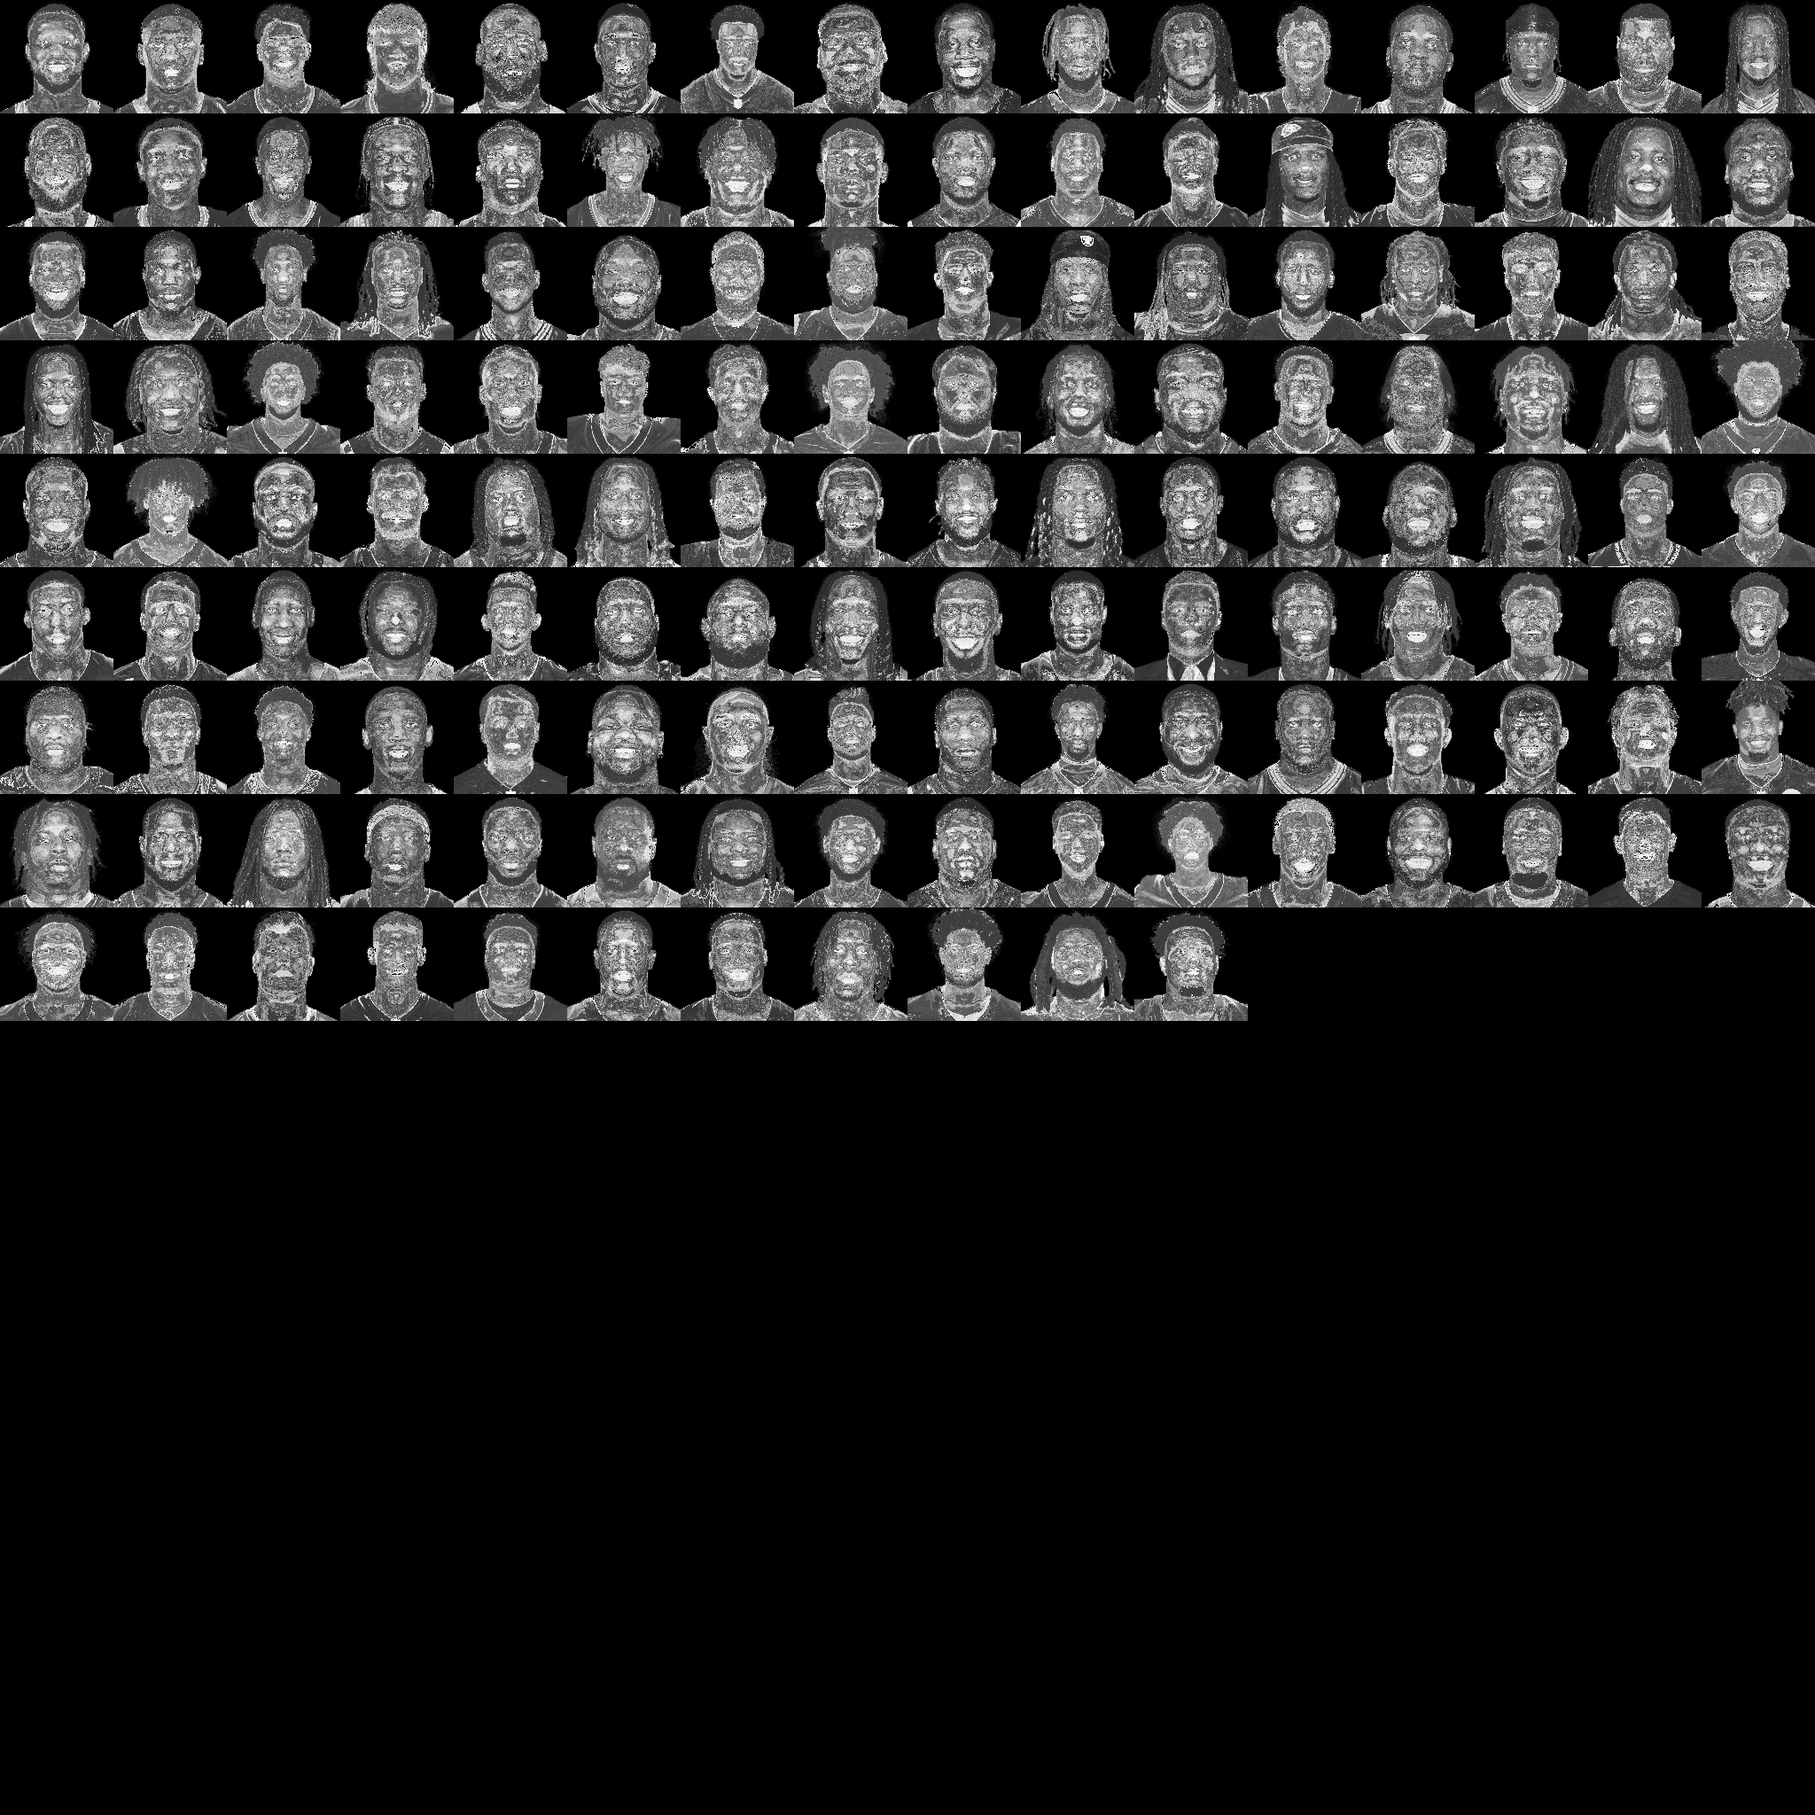
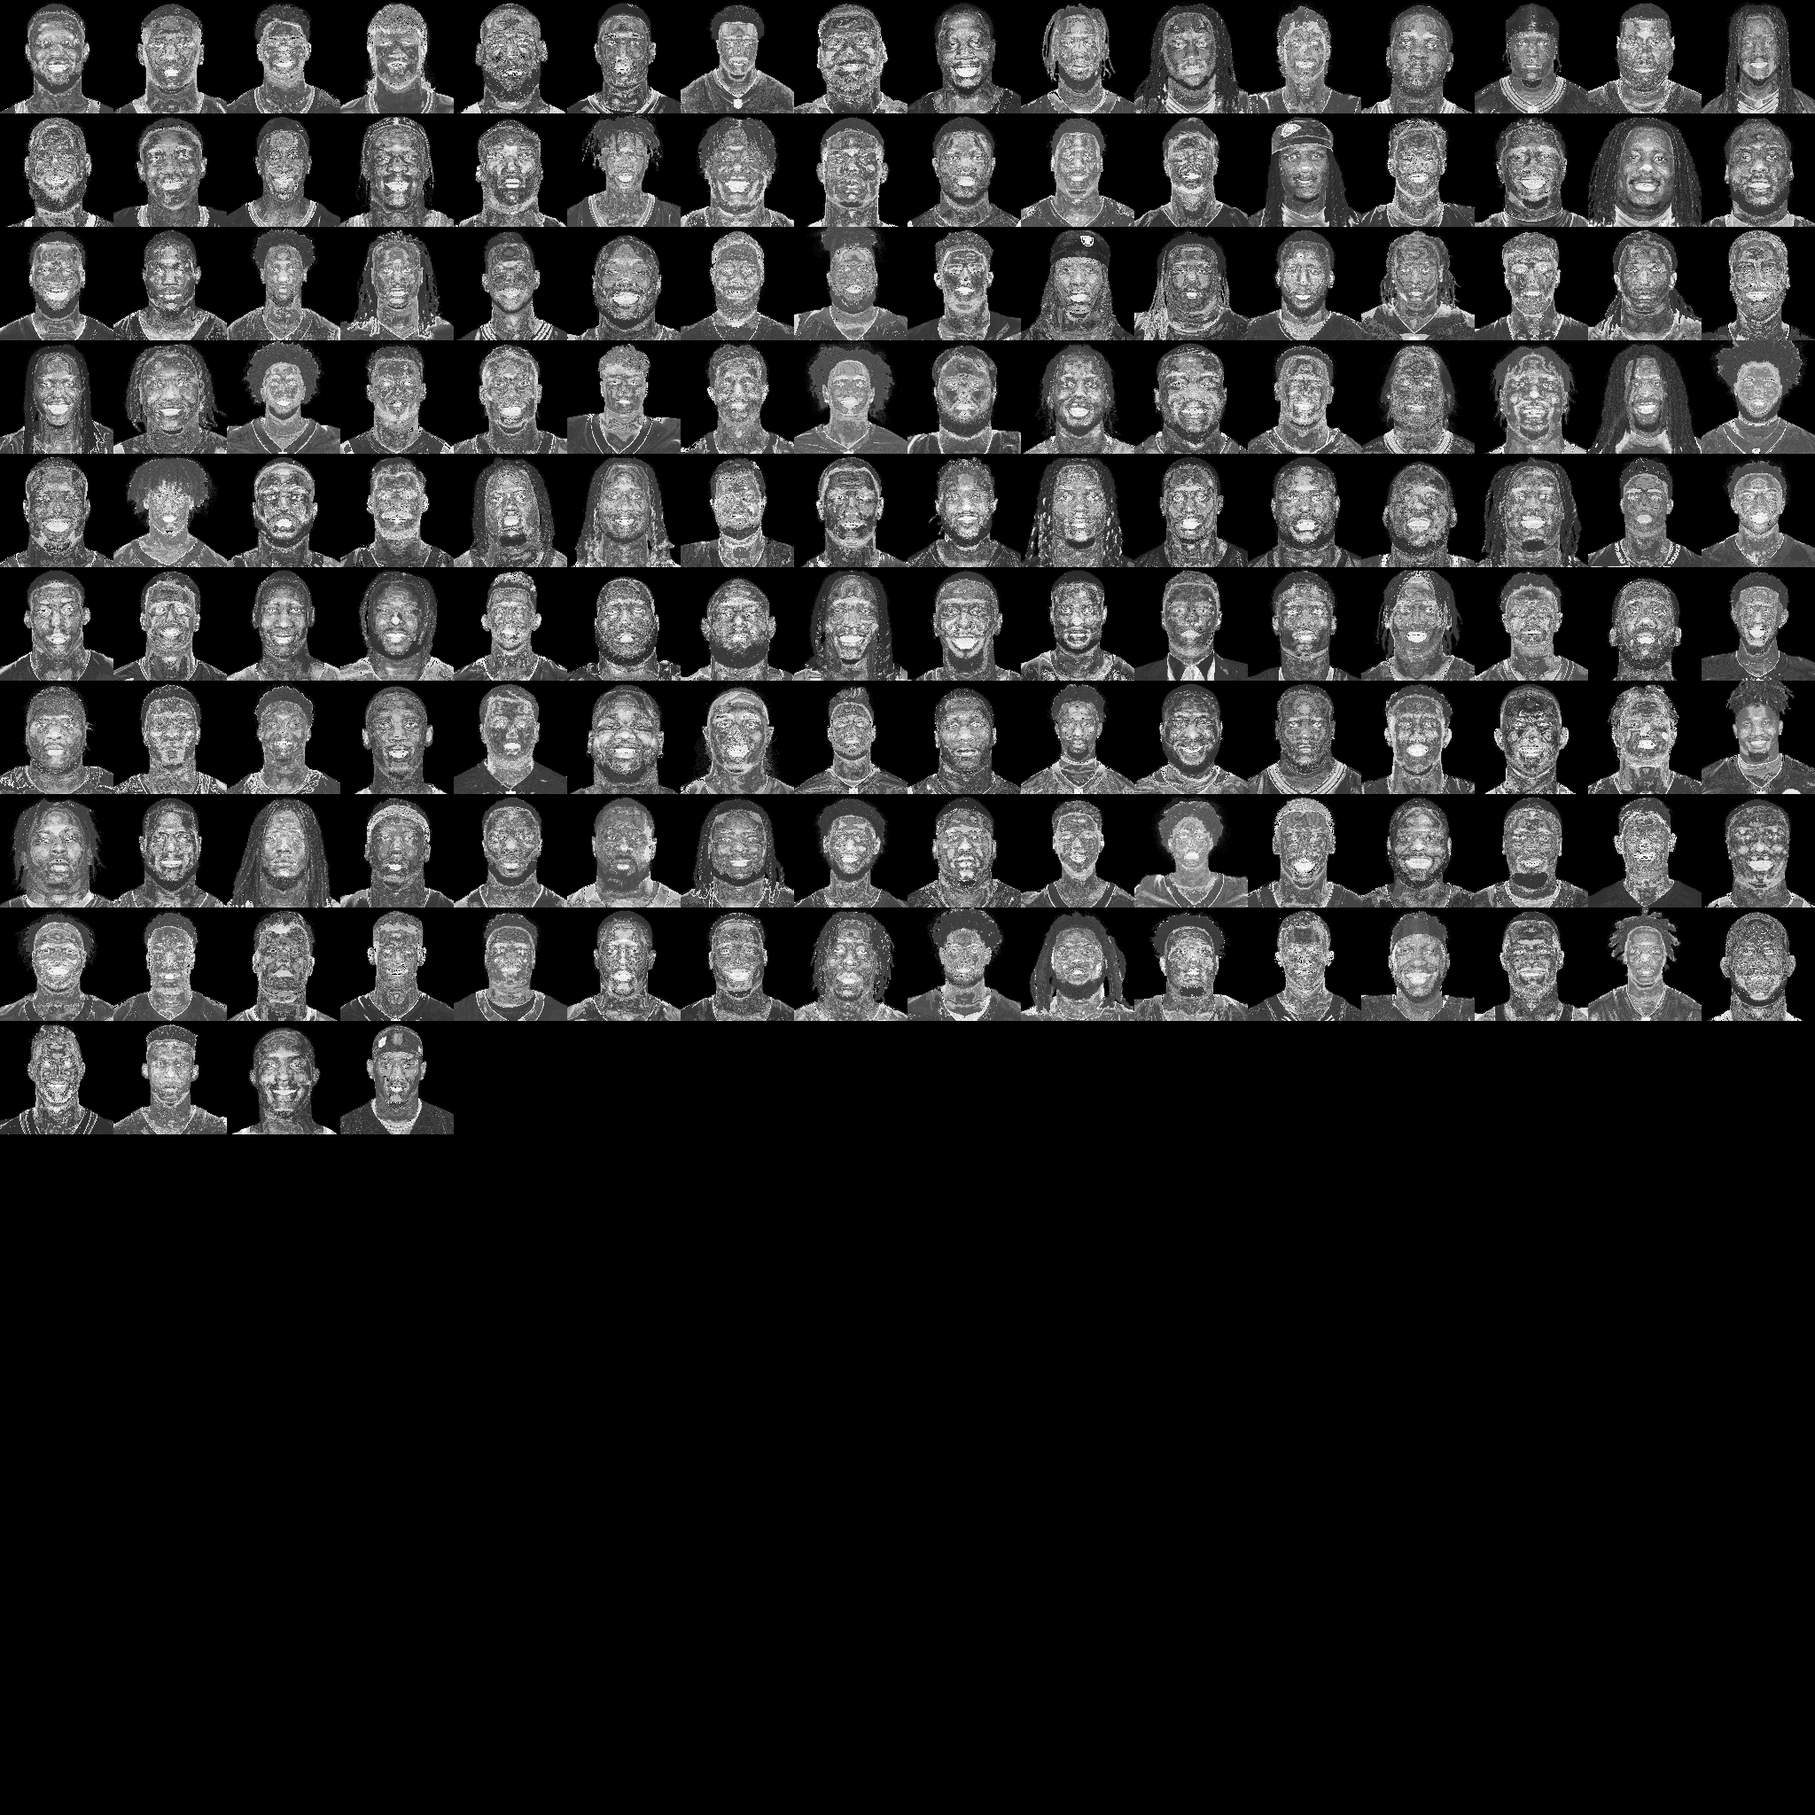
Roster follow-ups: shared numbers, Durability from injury history, named free agents, ratings layer
The coordinator's 11/25 additions to the roster lane, on top of the 11/25 refresh. The roster files live in the release
sources (v10-sources-128 20668706, -64 73b38382); this commit carries what they need here and the checks:

- data/nfl2k5_real_portraits: 9 official headshots for the free agents Noah named (Manziel, RG3, Derek Carr, Teddy
  Bridgewater, Blake Bortles, Tim Tebow, Allen Hurns, PJ Walker, Hakeem Butler; ids 31163..31171). Manziel's NFL.com
  picture is the league's placeholder helmet, so his is the ESPN headshot of his espn_id.
- packaging: the modern-art catalog regenerated by its tool (faces_04 pair only) and its digest pinned (d6bde445).
- tests: the lint gains jersey_clashes() and lint(shared_numbers=True) (no number shared across a club's 53, practice
  squad and IR; the release disc's pack lint runs with it); the BUF #22 known entry is gone again (Gardner-Johnson was
  released 11/03); the portraits test counts the named nine; the release-sources test pins both final files and checks
  Cousins on MIN, unique numbers among each club's 53 and practice squad, Mixon's Durability 66 and the named nine as
  free agents.

In the roster files (scratch tools, see REVIEW_ME): 16 jersey fixes from club roster pages or the modern free-number
rule; Durability lowered for 341 players by their 2024-26 availability (Mixon 85 -> 66), nothing else changed; the
[…]

Changed region(s): [[0.6875, 0.5, 1.0, 0.5625], [0.0, 0.5625, 0.25, 0.625]]

diff --git a/tests/mod_editor/test_b780_roster1_depth_lint.py b/tests/mod_editor/test_b780_roster1_depth_lint.py
@@ -53,9 +53,6 @@ ELIGIBLE = {"h": {"P", "K", "QB"}, "k": {"K"}, "ls": {"C", "TE", "G", "T"},
 # Left for a decision in this release (b780 roster1 report; BETA81_QUEUE.md), or fixed by another job.
 KNOWN = {
     ("LAR", "jersey twice"): "nflverse 11/03 lists Brandon McManus and the injured Blake Grupe, both kickers, as #19",
-    # b81 roster-1125: Amani Hooker (traded TEN -> BUF 11/10) wears #22 on buffalobills.com; nflverse 11/25 still lists the
-    # injured C.J. Gardner-Johnson (reserve, last listed week 8) as BUF #22, so he starts the franchise on IR with it
-    ("BUF", "jersey twice"): "nflverse 11/25 lists Amani Hooker and the injured C.J. Gardner-Johnson, both safeties, as #22",
 }
 # Findings of the plans before the 11/03 refresh (the b779 roster edits the v0.8 recipe loads, as_of 10/14). The release rosters
 # (128 and 64 MB) have none of them: the 11/03 refresh signs Karty and creates McManus (LAR kicker), creates Zach Wood (NO long
@@ -84,8 +81,23 @@ def starts_on_ir(doc, player):
     return bool(word20 & 0x80000000) and ((word20 >> 22) & 0xFF) >= 4 and (word24 >> 28) & 7 == 4
 
 
-def lint(doc, *, portraits=False):
-    """{(club, check): detail} for the 32 clubs of a one-pool roster document."""
+def jersey_clashes(doc):
+    """b81 roster-1125 (coordinator 11/25: "no two men on a club share a jersey number across the active list, practice
+    squad and IR"): {club: {number: [names]}} for every number two of a club's 53, practice squad or IR share."""
+    out = {}
+    for team in doc.teams[:32]:
+        numbers = collections.defaultdict(list)
+        for player in doc.team_players(team.index) + doc.reserve_players(team.index):
+            numbers[player.record.get("jersey")].append(player.display)
+        shared = {n: names for n, names in numbers.items() if len(names) > 1}
+        if shared:
+            out[team.abbreviation] = shared
+    return out
+
+
+def lint(doc, *, portraits=False, shared_numbers=False):
+    """{(club, check): detail} for the 32 clubs of a one-pool roster document. ``shared_numbers`` also checks jersey numbers
+    across the 53, the practice squad and IR (jersey_clashes); the release disc's lint runs with it."""
     found = {}
     lists = collections.defaultdict(list)
     for team in doc.teams[:32]:
@@ -155,6 +167,9 @@ def lint(doc, *, portraits=False):
                 found[(club, f"college {player.display}")] = None
             if not player.first or not player.last or "*" in player.first + player.last:
                 found[(club, f"name {player.index}")] = player.display
+    if shared_numbers:
+        for club, shared in jersey_clashes(doc).items():
+            found[(club, "jersey shared across 53, practice squad and IR")] = shared
     if portraits:
         owners = collections.defaultdict(list)
         for index, where in lists.items():
@@ -376,6 +391,43 @@ class WrongFaceTests(unittest.TestCase):
 # ------------------------------------------------------------------------------------------------ pack data
 @unittest.skipUnless(V08_ROST.is_file() and RELEASE_PLAN.is_file(),
                      "NFL2K5_RELEASE_ROSTER_EDITS (the release roster edits, room_policy ir) or the v0.8 disc roster is not set")
+class JerseyClashTests(unittest.TestCase):
+    """b81 roster-1125: jersey_clashes finds a number a club's 53 (IR men are on it) shares with its practice squad."""
+
+    class _Record:
+        def __init__(self, jersey):
+            self.jersey = jersey
+
+        def get(self, key):
+            return self.jersey
+
+    class _Player:
+        def __init__(self, name, jersey):
+            self.display, self.record = name, JerseyClashTests._Record(jersey)
+
+    class _Team:
+        def __init__(self, index, abbreviation):
+            self.index, self.abbreviation = index, abbreviation
+
+    class _League:
+        def __init__(self, lists):
+            self.teams = [JerseyClashTests._Team(i, abbr) for i, abbr in enumerate(lists)]
+            self.lists = list(lists.values())
+
+        def team_players(self, index):
+            return [JerseyClashTests._Player(n, j) for n, j in self.lists[index][0]]
+
+        def reserve_players(self, index):
+            return [JerseyClashTests._Player(n, j) for n, j in self.lists[index][1]]
+
+    def test_a_practice_squad_or_ir_man_with_an_active_mans_number_is_found(self):
+        league = self._League({"LAR": ([("Brandon McManus", 19), ("Blake Grupe (IR)", 7)], [("Practice Kicker", 2)]),
+                               "MIA": ([("Zane Gonzalez", 31)], [("Jack Browning", 31)]),
+                               "BUF": ([("Amani Hooker", 22), ("Gardner-Johnson (IR)", 22)], [])})
+        self.assertEqual(jersey_clashes(league), {"MIA": {31: ["Zane Gonzalez", "Jack Browning"]},
+                                                  "BUF": {22: ["Amani Hooker", "Gardner-Johnson (IR)"]}})
+
+
 class ReleaseRosterInjuredReserveTests(unittest.TestCase):
     """b780-int: the release roster edits (RST2, room_policy "ir") replayed on the released v0.8 disc roster, as the
     v0.9 build runs them. NFL2K5_V08_ROSTER_EDITS stays the beta-79 file the other pack tests expect."""
@@ -466,7 +518,7 @@ class PackRosterLintTests(unittest.TestCase):
 class PackImageLintTests(unittest.TestCase):
     def test_the_built_roster_passes_the_lint(self):
         doc = rr.load_image(LINT_IMAGE, scheme="one_pool", reference_year=2026)
-        self.assertEqual(unexpected(lint(doc, portraits=True)), {})
+        self.assertEqual(unexpected(lint(doc, portraits=True, shared_numbers=True)), {})
 
 
 if __name__ == "__main__":

diff --git a/packaging/check_2k5_mod_studio_release.py b/packaging/check_2k5_mod_studio_release.py
@@ -334,7 +334,7 @@ ANNIVERSARY_FIELD_PNG_CATALOG_SHA256 = "c621d94c4f48f26ab6c44e912dd5d5ff7a36d070
 # (b778 cf1-cf4: photo-derived likeness textures, Noah 2026-10-12; see the catalog's classification). It grants no general PNG
 # exception inside those folders; tools/b77/modern_art_png_catalog.py regenerates it and prints the digest below.
 MODERN_ART_PNG_CATALOG = "packaging/nfl2k5_modern_art_pngs.json"
[2 lines of base64/hex data omitted]
 
 # sb3: Noah (2026-10-28) cleared real logos for this free fan mod, so his real Super Bowl event logos, network marks
 # and team-season logos ship as the bundled default. This is a separate exact catalog, not an authored-art exception:

diff --git a/tests/mod_editor/test_b779_pt1_real_portraits.py b/tests/mod_editor/test_b779_pt1_real_portraits.py
@@ -246,13 +246,14 @@ class RosterPlayersRst2(unittest.TestCase):
 
     def test_ids_follow_b9_in_a_wider_window_and_fill_a_fifth_atlas(self):
         self.assertEqual([r["id"] for r in self.rows], list(range(30995, 30995 + len(self.rows))))
-        # b780 rst2's 121 (ids 30995..31115), then b81 roster-1125's 47 (31116..31162, see the next test)
-        self.assertEqual(len(self.rows), 121 + 47)
+        # b780 rst2's 121 (ids 30995..31115), then b81 roster-1125's 47 (31116..31162) and the 9 named free agents
+        # (31163..31171), see the next test
+        self.assertEqual(len(self.rows), 121 + 47 + 9)
         self.assertLess(self.rows[-1]["id"], rp.ID_LIMIT)
         self.assertEqual(rp.ID_LIMIT, 31200)
         self.assertEqual({r["atlas"] for r in self.rows}, {"faces_03.png", "faces_04.png"})
         self.assertIn("faces_04.png", {a["file"] for a in self.doc["atlases"]})
-        self.assertEqual([a["job"] for a in self.doc["additions"]][-2:], ["b780-rst2", "b81-roster-1125"])
+        self.assertEqual([a["job"] for a in self.doc["additions"]][-3:], ["b780-rst2", "b81-roster-1125", "b81-roster-1125-named"])
         every = [(r["first"], r["last"], r["birth_month"], r["birth_day"]) for r in self.doc["portraits"]]
         self.assertEqual(len(every), len(set(every)))
 
@@ -260,14 +261,28 @@ class RosterPlayersRst2(unittest.TestCase):
         """b81 roster-1125: the players the 11/25 refresh creates (nflverse 53-man players the plan had no record for, among
         them Micah Parsons, Myles Garrett and Kerby Joseph, back from injured reserve) get their official headshots,
         under the record's own name (Nick Westbrook-Ikhine's surname is Westbrook: the 15-character buffer)."""
-        added = self.rows[121:]
-        self.assertEqual(self.doc["additions"][-1], dict(job="b81-roster-1125", fetched="2026-11-25", rows=47,
-                                                         moved_from_wrong_faces=0, note=self.doc["additions"][-1]["note"]))
+        added = self.rows[121:168]
+        addition = self.doc["additions"][-2]
+        self.assertEqual(addition, dict(job="b81-roster-1125", fetched="2026-11-25", rows=47, moved_from_wrong_faces=0,
+                                        note=addition["note"]))
         self.assertEqual([r["id"] for r in added], list(range(31116, 31163)))
         self.assertEqual({r["atlas"] for r in added}, {"faces_04.png"})
         names = {(r["first"], r["last"]) for r in added}
         for name in (("Micah", "Parsons"), ("Myles", "Garrett"), ("Kerby", "Joseph"), ("Nick", "Westbrook")):
             self.assertIn(name, names)
+
+    def test_the_free_agents_noah_named_have_their_official_headshots(self):
+        """b81 roster-1125 (Noah 11/25: "Johnny Manziel should be a free agent ... RG3 ... Derek Carr ..."): nine named free
+        agents. Manziel's NFL.com picture is the league's placeholder helmet, so his is the ESPN headshot of his espn_id."""
+        named = self.rows[168:]
+        self.assertEqual(self.doc["additions"][-1]["job"], "b81-roster-1125-named")
+        self.assertEqual([r["id"] for r in named], list(range(31163, 31172)))
+        self.assertEqual({r["last"] for r in named}, {"Manziel", "Griffin", "Carr", "Bridgewater", "Bortles", "Tebow", "Hurns",
+                                                      "Walker", "Butler"})
+        manziel = next(r for r in named if r["last"] == "Manziel")
+        self.assertEqual((manziel["source_list"], manziel["source_url"]),
+                         ("espn", "https://a.espncdn.com/i/headshots/nfl/players/full/16736.png"))
+        self.assertLess(named[-1]["id"], rp.ID_LIMIT)
 
     def test_thorson_and_masses_have_their_own_pictures_and_are_no_longer_wrong_faces(self):
         names = {(r["first"], r["last"]) for r in self.rows}

diff --git a/tests/mod_editor/test_b81_roster_consistency.py b/tests/mod_editor/test_b81_roster_consistency.py
@@ -79,9 +79,9 @@ STANDARD_SOURCES = Path(os.environ.get("NFL2K5_B81_STANDARD_SOURCES", "") or "mi
 # b81 roster-1125 (Noah: "kirk cousins not on vikings, trade deadline roster not updated?"; the 2026 deadline was 11/10):
 # the release sources load the 11/25 refresh, 128 MB and the 64 MB retail-capacity fit of it.
 RELEASE_ROSTERS = {128: ("roster-edits-b81-refresh-20261125.json",
[2 lines of base64/hex data omitted]
                    64: ("roster-edits-b81-refresh-20261125-retail-capacity-64mb.json",
[2 lines of base64/hex data omitted]
 
 
 @unittest.skipUnless((STANDARD_SOURCES / "recipe.json").is_file(), "private release sources absent: NFL2K5_B81_STANDARD_SOURCES")
@@ -107,6 +107,25 @@ class ReleaseSourcesRosterTests(unittest.TestCase):
                 self.assertEqual((cousins["team"], cousins["status"]), ("MIN", "ACT"))
                 minnesota = next(t for t in plan["teams"] if t["team"] == "MIN")
                 self.assertIn(cousins["index"], minnesota["active"])
+                rows = {r["index"]: r for r in plan["players"]}
+                # coordinator 11/25: no two men on a club share a number across the 53, the practice squad and IR. The plan
+                # lists the 53 and the practice squad; which injured men stay on IR the writer decides (the 65-man list),
+                # so IR is checked on the written roster: test_b780_roster1_depth_lint jersey_clashes / lint(lists=True)
+                for team in plan["teams"]:
+                    numbers = [rows[i]["fields"]["jersey"] for i in set(team["active"]) | set(team["reserves"])]
+                    self.assertEqual(len(numbers), len(set(numbers)), team["team"])
+                # Noah 11/25 on Joe Mixon ("He should be very likely to reinjure himself when signed"): Durability from
+                # his real availability (2025 all season on a reserve list): 85 -> 66
+                if memory == 128:   # the 64 MB fit leaves the free agents in capacity records out, Mixon and the named ones too
+                    mixon = next(r for r in plan["players"] if r.get("gsis_id") == "00-0033897")
+                    self.assertEqual((mixon["status"], mixon["fields"]["durability"]), ("UFA", 66))
+                    # Noah 11/25: the free agents he named
+                    named = {r["source_name"] for r in plan["players"] if (r.get("evidence") or {}).get("kind")
+                             == "owner_named_default_free_agent"}
+                    self.assertEqual(named, {"Johnny Manziel", "Robert Griffin III", "Derek Carr", "Teddy Bridgewater",
+                                             "Blake Bortles", "Tim Tebow", "Allen Hurns", "PJ Walker", "Hakeem Butler"})
+                    self.assertTrue(all(r["index"] in plan["free_agents"] for r in plan["players"]
+                                        if r.get("source_name") in named))
 
 
 MOD = Path(os.environ.get("NFL2K5_V09_XISO", ""))
